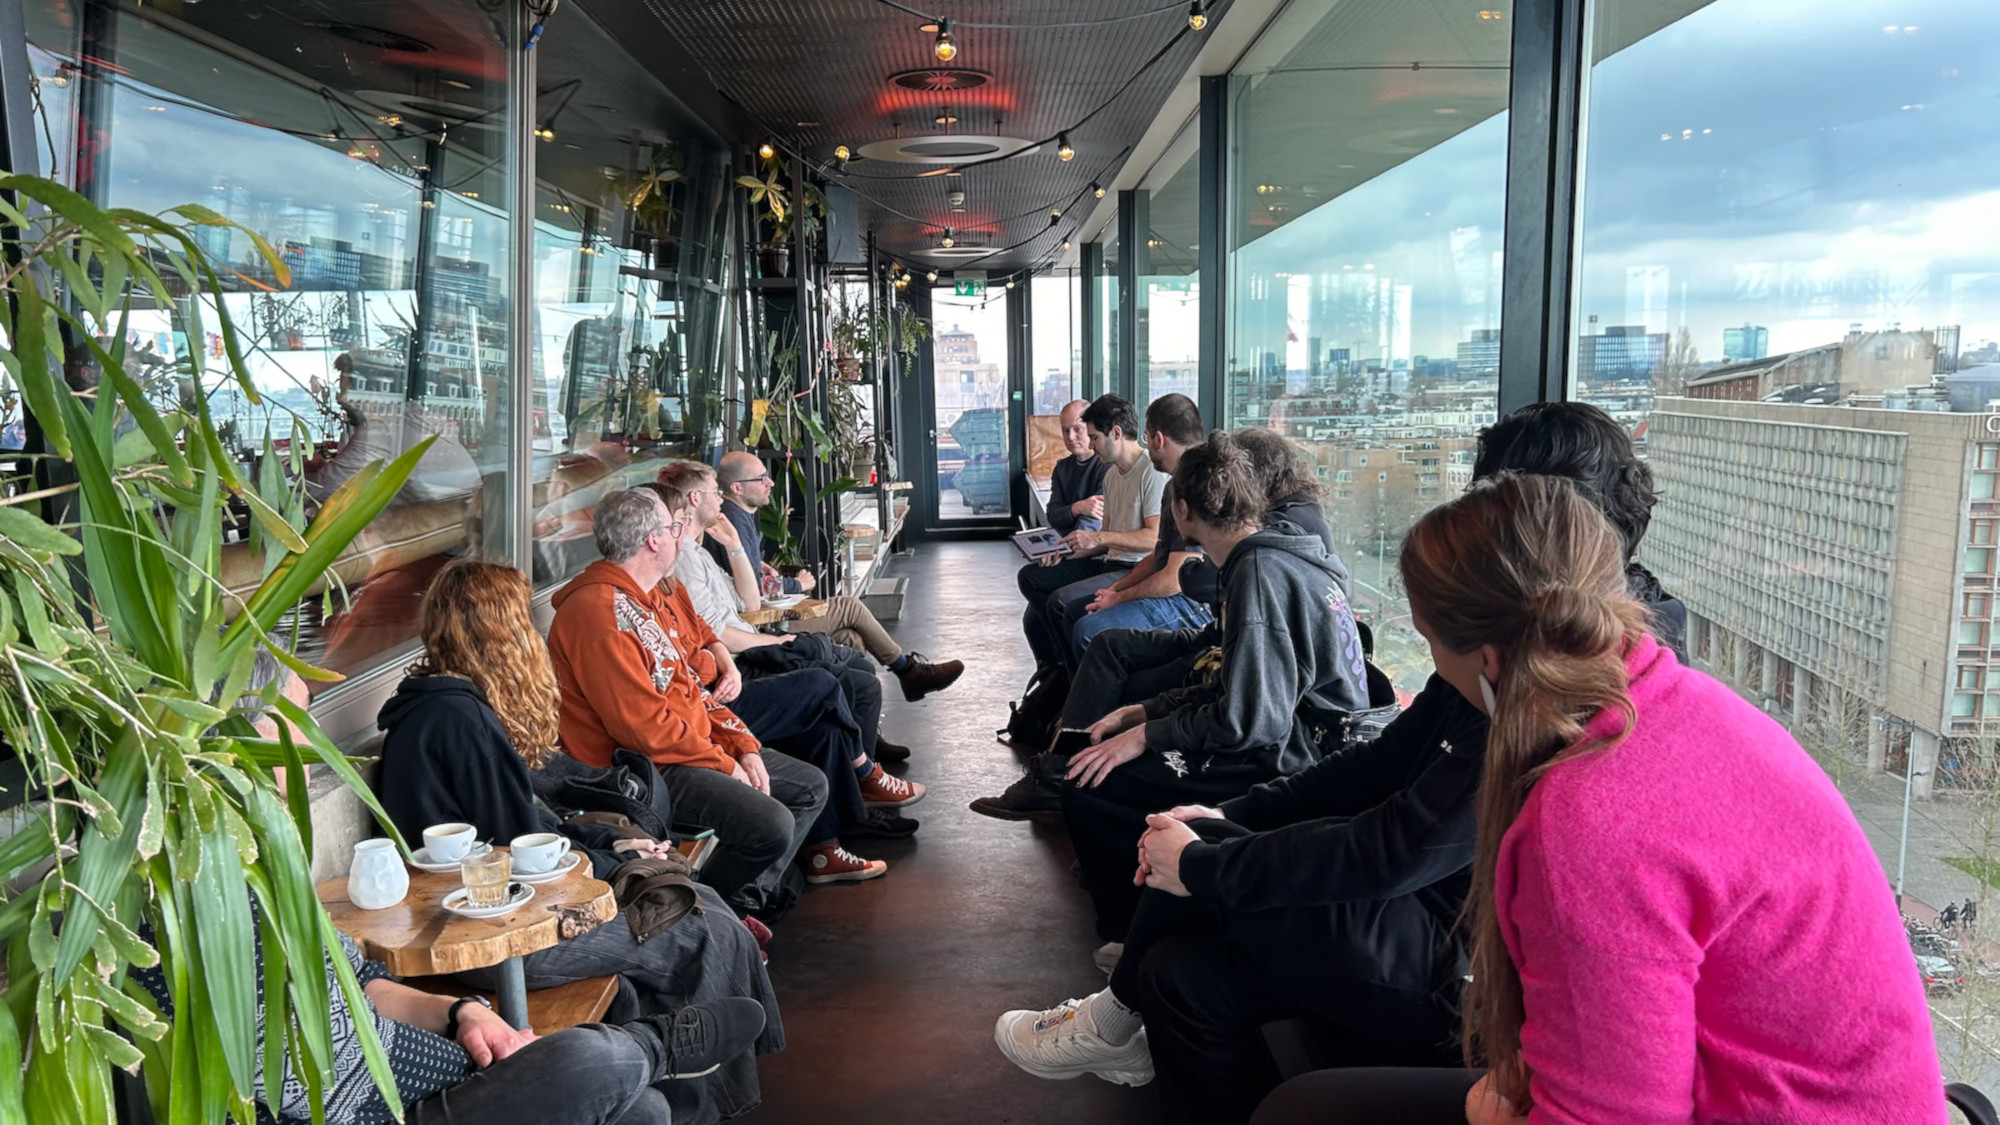
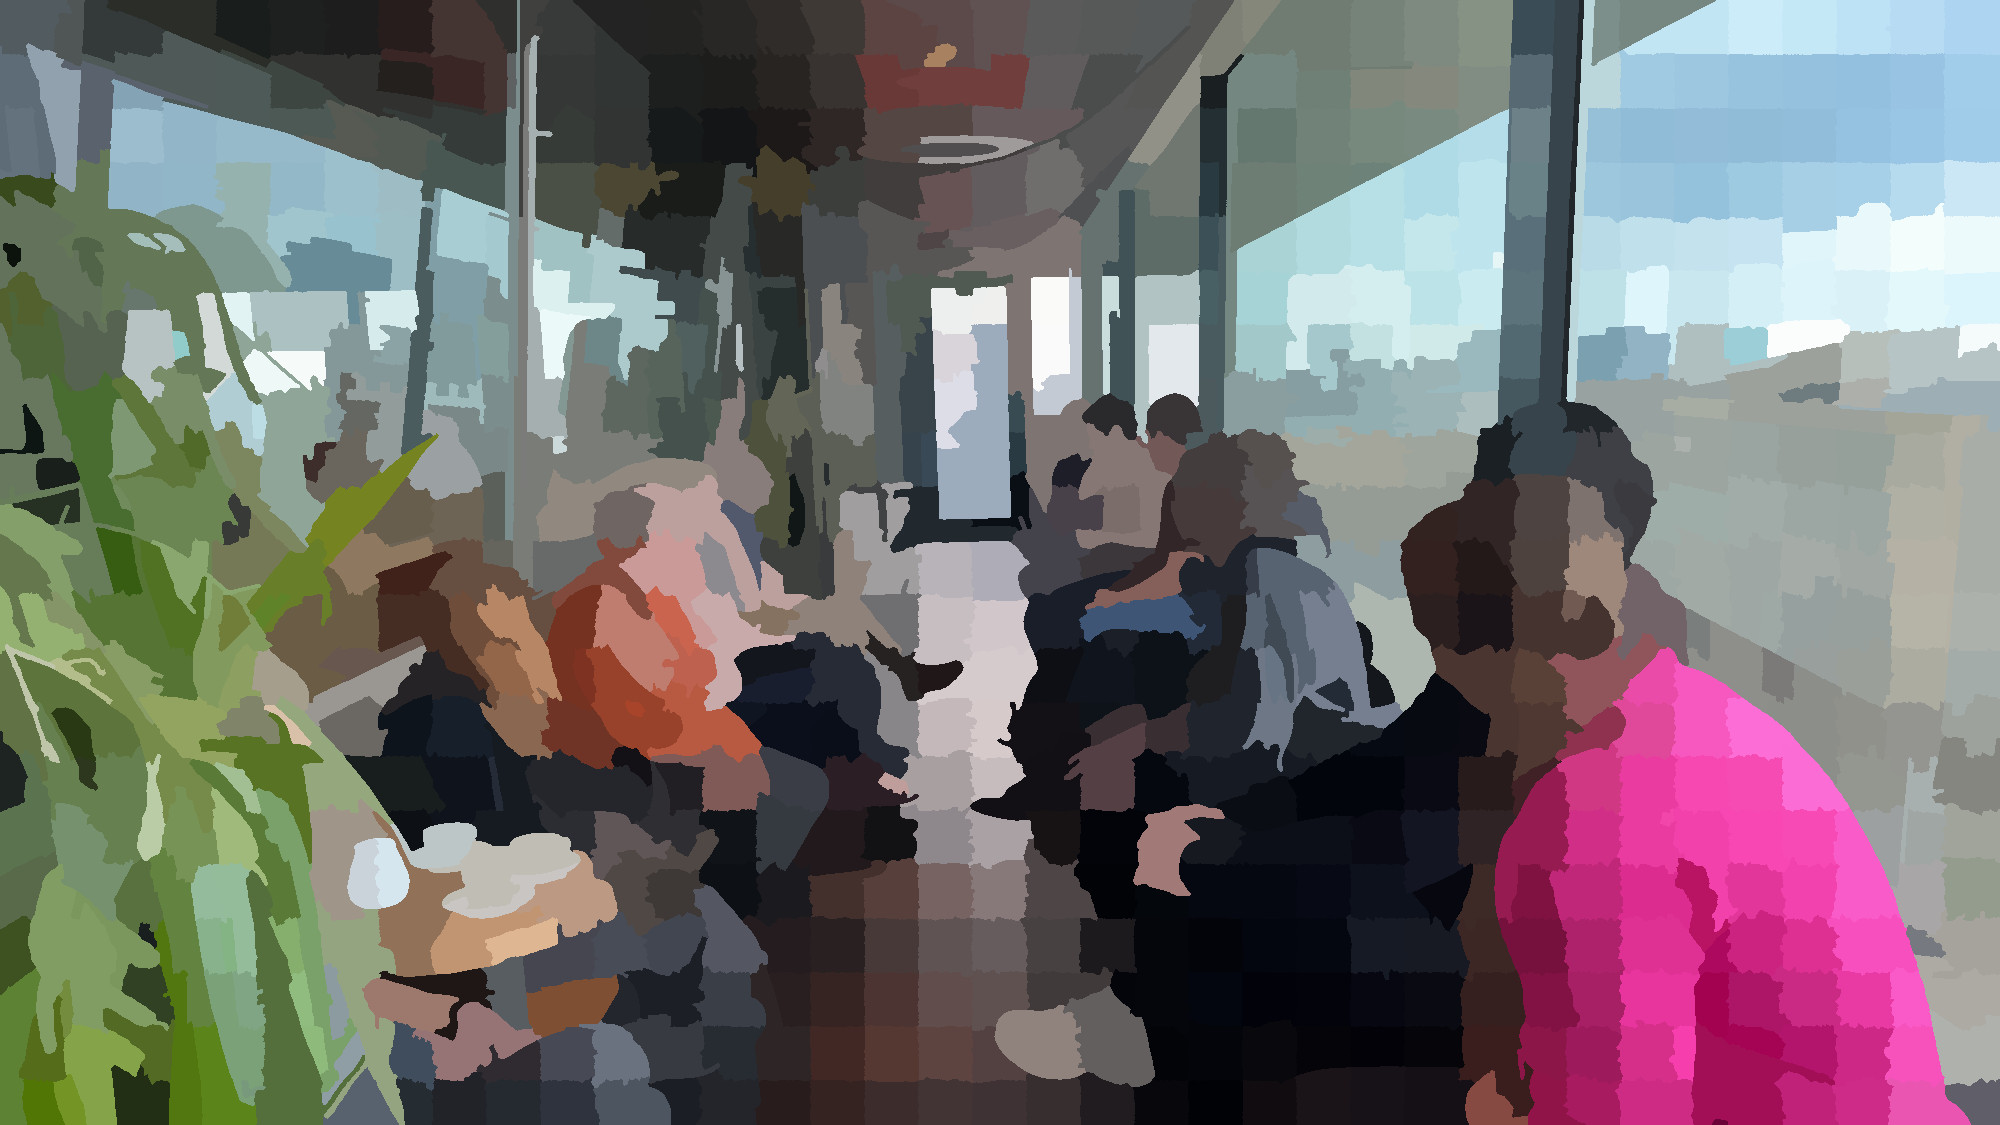
About page, small changes

diff --git a/website/templates/partials/header.html b/website/templates/partials/header.html
@@ -33,9 +33,9 @@
     <a href="/code-challenges/" class="header__nav-item hover block dots"
       >Code Challenges</a
     >
-    <!-- <a href="/about/" class="nav__link hover block stripes">About</a> -->
+    <a href="/about/" class="header__nav-item hover block stripes-inverted">About</a>
     <button
-      class="header__nav-item contact-trigger hover block stripes-inverted"
+      class="header__nav-item contact-trigger hover block dots-shifted"
     >
       Contact
     </button>
@@ -48,9 +48,9 @@
     <a href="/code-challenges/" class="header__nav-item hover block dots"
       >Code Challenges</a
     >
-    <!-- <a href="/about/" class="nav__link hover block stripes">About</a> -->
+    <a href="/about/" class="header__nav-item hover block stripes-inverted">About</a>
     <button
-      class="header__nav-item contact-trigger hover block stripes-inverted"
+      class="header__nav-item contact-trigger hover block dots-shifted"
     >
       Contact
     </button>

diff --git a/website/static/js/app.js b/website/static/js/app.js
@@ -34,16 +34,18 @@ const disabledHoverDefaultValue =
 disableHoverInput.checked = disabledHoverDefaultValue;
 
 if (!disabledHoverDefaultValue) {
+  console.log("add class");
   document.body.classList.add("enable-hover-effect");
 }
 
 disableHoverInput.addEventListener("change", () => {
   document.body.classList.toggle("enable-hover-effect");
 
-  localStorage.setItem(
-    "disable-hover-effect",
-    disableHoverInput.checked.toString(),
-  );
+  if (disableHoverInput.checked) {
+    localStorage.setItem("disable-hover-effect", "true");
+  } else {
+    localStorage.removeItem("disable-hover-effect");
+  }
 });
 
 // ----- Scroll ----- //

diff --git a/website/sass/base/_helpers.scss b/website/sass/base/_helpers.scss
@@ -61,6 +61,18 @@
     max-width: 100%;
   }
 
+  > p:has(img:only-child) {
+    max-width: 48rem;
+    border: var(--border-width) solid var(--border-color);
+    transition: transform 250ms;
+
+    @media (hover: hover) and (prefers-reduced-motion: no-preference) {
+      .enable-hover-effect &:hover {
+        transform: translate(0.5rem, -0.5rem);
+      }
+    }
+  }
+
   h2,
   h3 {
     &:not(:first-child) {

diff --git a/website/sass/components/_footer.scss b/website/sass/components/_footer.scss
@@ -29,9 +29,15 @@
 }
 
 .footer__disable-hover-label {
-  display: flex;
-  align-items: center;
-  gap: 0.375rem;
+  display: none;
+}
+
+@media (hover: hover) and (prefers-reduced-motion: no-preference) {
+  .footer__disable-hover-label {
+    display: flex;
+    align-items: center;
+    gap: 0.375rem;
+  }
 }
 
 .footer__disable-hover-label:has(input:focus-visible) {

diff --git a/website/templates/base.html b/website/templates/base.html
@@ -52,7 +52,7 @@ striptags | truncate(length=150) %} {% endif %} {% endif %}
     {% endif %} {% block head %}{% endblock %}
   </head>
 
-  <body class="enable-hover-effect">
+  <body class="">
     <div class="app">
       {% include "partials/header.html" %}
       <main class="main grid">{% block content %} {% endblock %}</main>

diff --git a/website/templates/partials/footer.html b/website/templates/partials/footer.html
@@ -5,6 +5,7 @@
     <ul>
       <li><a href="/events/">Events</a></li>
       <li><a href="/code-challenges/">Code Challenges</a></li>
+      <li><a href="/about/">About</a></li>
       <li><button class="contact-trigger">Contact</button></li>
     </ul>
     <ul>

diff --git a/website/sass/styles.scss b/website/sass/styles.scss
@@ -10,5 +10,6 @@
 @import "components/_footer.scss";
 @import "components/_header.scss";
 @import "components/_home.scss";
+@import "components/_page.scss";
 @import "components/_spotlight.scss";
 @import "components/_submissions.scss";

diff --git a/website/templates/page.html b/website/templates/page.html
@@ -7,6 +7,6 @@
   <h1>{{page.title}}</h1>
 </div>
 
-<div class="padding content">{{ page.content | safe }}</div>
+<div class="padding content page__content">{{ page.content | safe }}</div>
 
 {% endblock content %}

diff --git a/website/sass/components/_page.scss b/website/sass/components/_page.scss
@@ -1,0 +1,3 @@
+.page__content {
+  padding-bottom: 6rem;
+}

diff --git a/website/content/about/index.md b/website/content/about/index.md
@@ -1,9 +1,16 @@
 +++
-title = "About"
-draft = true
+title = "About CCA"
 
 [extra]
-# image = "/img/about.png"
+image = "/img/about/a-lab.jpg"
 +++
 
-WIP
+Creative Coding Amsterdam was founded in 2015 ago by Sabrina and Saskia and has since seen its organizing members change over time. Since February 2024, [David](https://d17e.dev/), [Sinan](https://wiredpieces.com/), and [Stanko](https://muffinman.io/) have taken on the organizer role to breathe some well-deserved new life into the community. Since then, we have held monthly events in varying formats.
+
+![CCA meetup at Miro](/img/about/miro.jpg)
+
+Our events are open to everyone and we try to keep things casual. If you have an idea, an awesome project you'd like to showcase, or something you feel is missing in the creative coding community? Don't hesitate to <button class="home__reach-out contact-trigger"><strong>reach out</strong></button> and help make it happen!
+
+![CCA meetup at A-Lab](/img/about/a-lab.jpg)
+
+Hope to see you online or on one of our meetups!

diff --git a/README.md b/README.md
@@ -48,7 +48,8 @@ Deployments are automated using [GitHub actions](./.github/workflows/gh-pages.ya
 * [x] Page template (basic version is done, we'll add more components as we go)
 * [x] Events page
 * [ ] Events page copy
-* [ ] About page
+* [x] About page
+* [x] About page copy
 * [x] 404 page
 * [x] Code challenge template - reused the page template with custom components
 * [ ] Clean up / organize SCSS a bit better (WIP)
